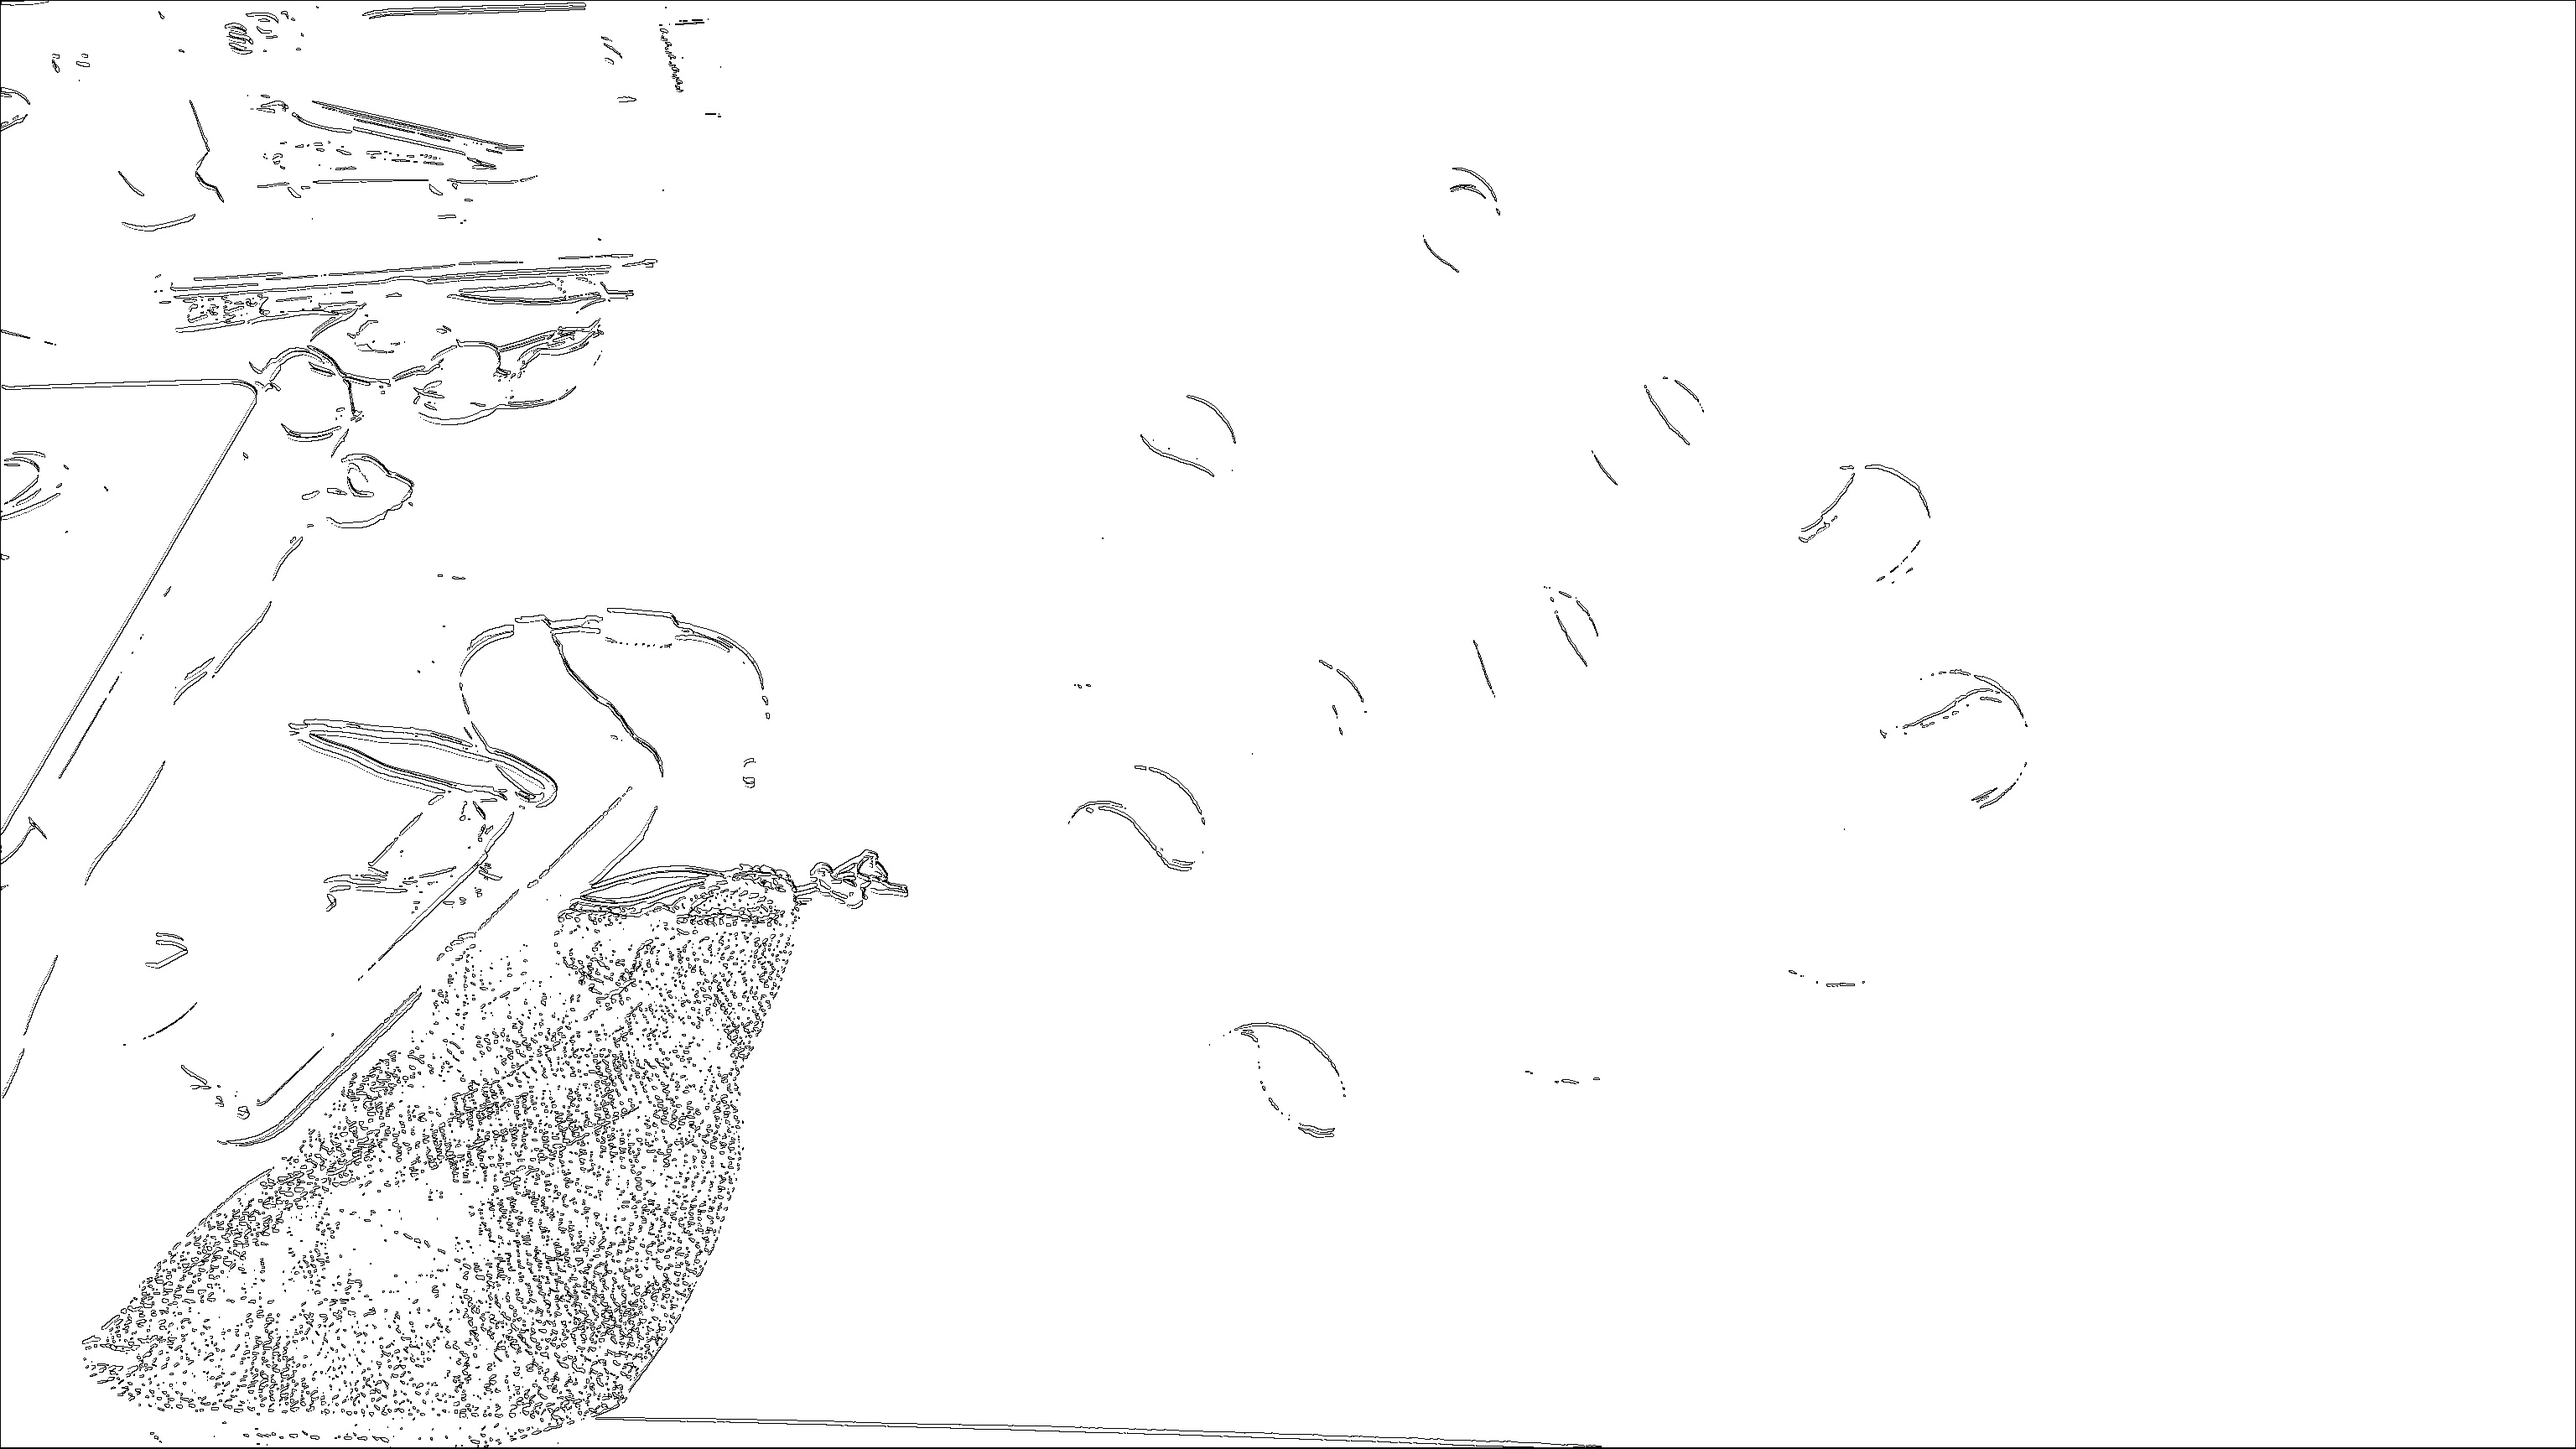
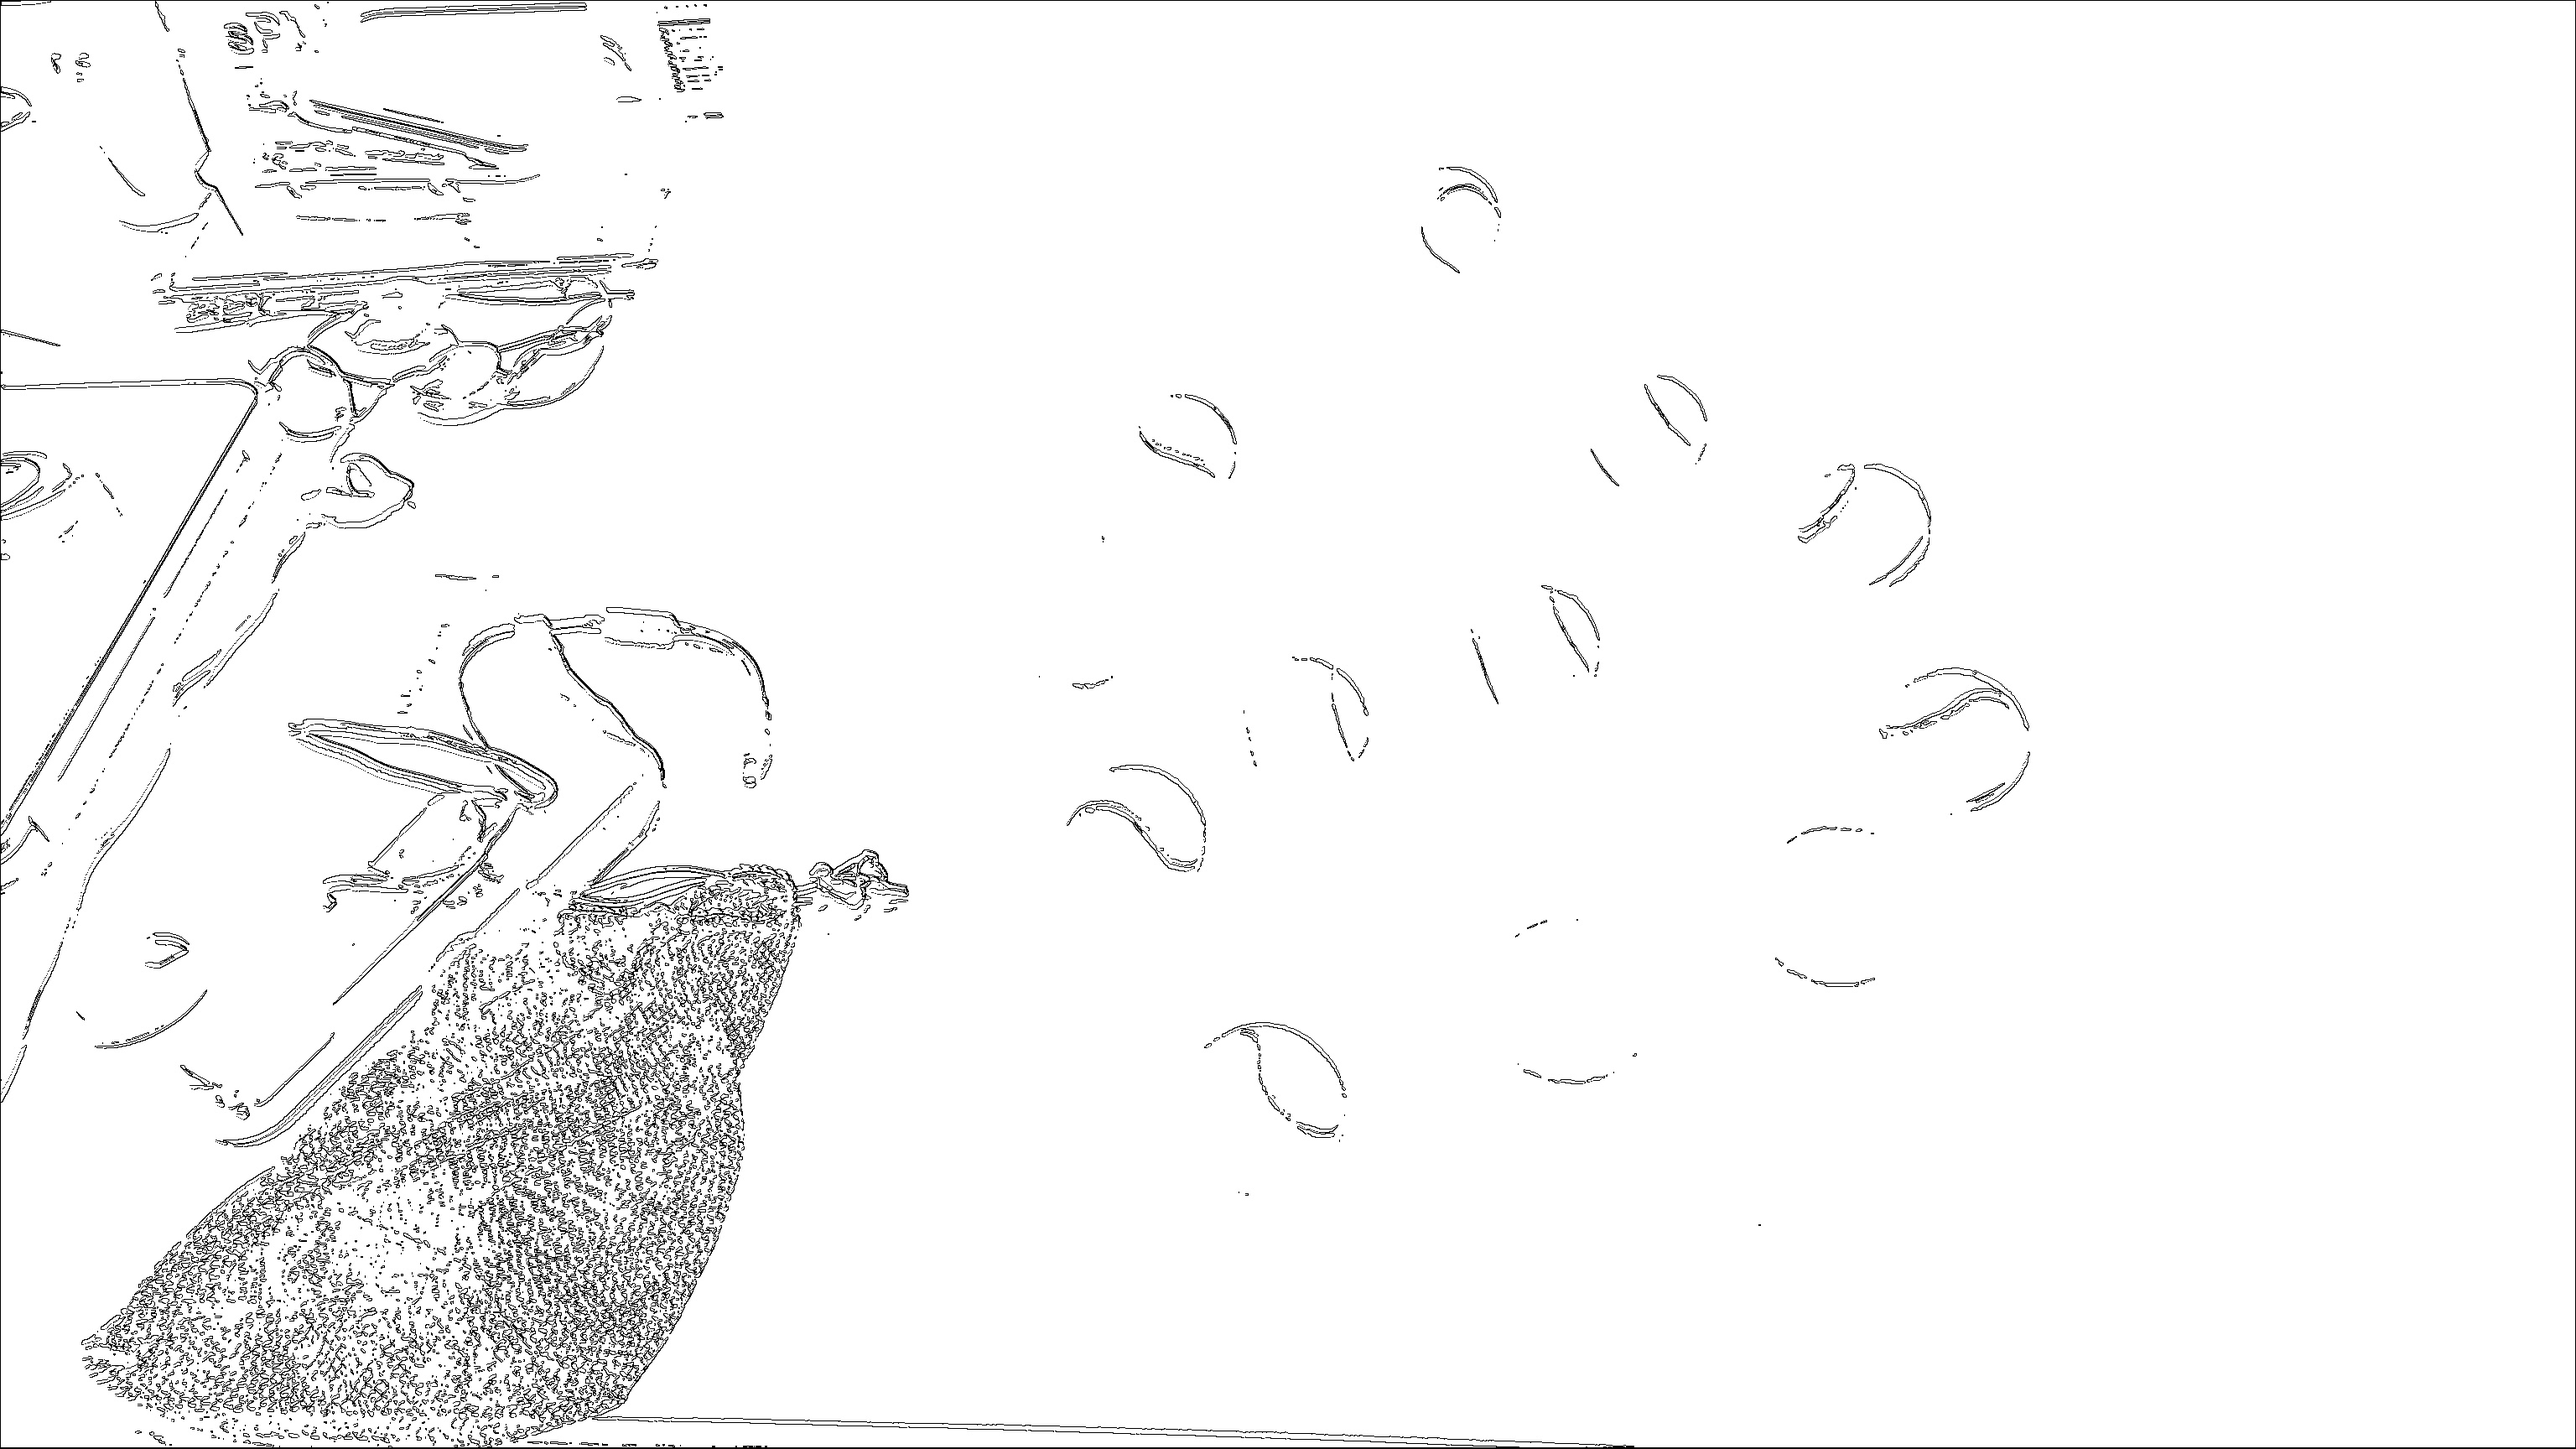
Added Hough Circles

diff --git a/BMaxwellOpenCV/main.cc b/BMaxwellOpenCV/main.cc
@@ -1,20 +1,23 @@
 //Include
 
 #include <opencv2\opencv.hpp>
-#include <iostream>
 #include <math.h>
+#include <stdio.h>
+#include <vector>
 
 //Benson Maxwell: 01504282
 
 //Namespaces
 
 using namespace cv;
+using namespace std;
 
 //Function prototypes
-void edgeDet(Mat input, int width, int height, float sigma);											//Canny style edge detection
-void imagePro(int width, int height);																	//Sobel filter
-void findEdge(int rowShift, int colShift, int row, int col, int direction, int width, int height);	//Find the edge provvided by the Sobel
-void nonMaxima(int rowShift, int colShift, int row, int col, int direction, int width, int height);	//Remove nonMax edges
+void edgeDet(Mat& input, int width, int height, float sigma);											//Canny style edge detection
+void imagePro(int width, int height);																	//Canny Filter filter
+void findEdge(int rowShift, int colShift, int row, int col, int direction, int width, int height);		//Find the edge provvided by the Sobel
+void nonMaxima(int rowShift, int colShift, int row, int col, int direction, int width, int height);		//Remove nonMax edges
+void houghCircle(Mat& original, int width, int height);
 
 //Macros for greyscale
 #define pixel(image ,y, x, step, channels) ( (uchar*) ((( image).data ) + (y) *(step) ) ) [( x)*(channels)]
@@ -27,23 +30,26 @@ int imageX, imageY;												// Image Resoltion
 float sigma = 1.0;												// Canny Filter Standard deviation
 int gradX;														// Sum of Sobel mask products values in the x direction
 int gradY;														// Sum of Sobel mask products values in the y direction
-int GxMask[3][3] = { {-1,0,1}, {-2,0,2}, {-1,0,-1} };			// Sobel mask in the x direction
-int GyMask[3][3] = { {1,2,1}, {0,0,0}, {-1,-2,-1} };			// Sobel mask in the y direction
+int GxMask[3][3] = { {-3,0,3}, {-10,0,10}, {-3,0,-3} };			// Sobel mask in the x direction
+int GyMask[3][3] = { {3,10,3}, {0,0,0}, {-3,-10,-3} };			// Sobel mask in the y direction
 int edgeDirection[3072][1728];									// Stores the edge direction of each pixel
-double pixGradient[3072][1728];									// Stores the gradient strength of each pixel
+int pixGradient[3072][1728];									// Stores the gradient strength of each pixel
 Mat impro_image(1728, 3072, CV_8UC1);							// Mat file for Sobel Operator
 Mat grey_image(1728, 3072, CV_8UC1);							// Mat file for Gray scale Operator
 Mat blur_image(1728, 3072, CV_8UC1);							// Gaussian Blur result
-float thresLow = 0.5;											// Lower Threshold
-float thresHigh = 0.7;											// Upper Threshold
+Mat hough_image(1728, 3072, CV_8UC1);							// Hough result
+float thresLow = 0.100;											// Lower Threshold
+float thresHigh = 0.5;											// Upper Threshold
 int step = impro_image.step;
 int channels = impro_image.channels();
-
+int radMin = 130;												// Min radius to look for
+int radMax = 195;												// Max Radius to look for
+vector<Vec3i> houghAcc;											// Hough Accumulator (Row, Col, Radius)
 
 
 int main(int argc, char* args[]) {
 
-	Mat	src_image = imread(FILE_NAME, CV_LOAD_IMAGE_COLOR);		// Loads the image1.jpg into the variable src_image
+	Mat src_image = imread(FILE_NAME, CV_LOAD_IMAGE_COLOR);		// Loads the image1.jpg into the variable src_image
 	imageX = src_image.size().width;
 	imageY = src_image.size().height;
 
@@ -52,11 +58,11 @@ int main(int argc, char* args[]) {
 
 	imwrite("../../BMaxwellOpenCV/Grey_Image.jpg", grey_image);
 	
-	namedWindow("Image", CV_WINDOW_NORMAL);						// Opens images for comparison
-	namedWindow("Grey Image", CV_WINDOW_NORMAL);
+	//namedWindow("Image", CV_WINDOW_NORMAL);						// Opens images for comparison
+	//namedWindow("Grey Image", CV_WINDOW_NORMAL);
 
-	imshow("Image", src_image);
-	imshow("Grey Image", grey_image);
+	//imshow("Image", src_image);
+	//imshow("Grey Image", grey_image);
 
 	edgeDet(grey_image, imageX, imageY, sigma); //Runs the Edge Detection algorithm
 
@@ -67,22 +73,25 @@ int main(int argc, char* args[]) {
 	return 0;
 }
 
-void edgeDet(Mat input, int width, int height, float sigma){
+void edgeDet(Mat &input, int width, int height, float sigma){
 
 	Mat kernel = (Mat_<double>(5, 5) << 1, 4, 6, 4, 1, 4, 16, 24, 16, 4, 6, 24, 36, 24, 6, 4, 16, 24, 16, 4, 1, 4, 6, 4, 1);	//Gaussian Kernel
-	kernel = kernel / 256;										//Normalised
+	kernel = kernel / 350;										//Normalised
 
 	filter2D(input, blur_image, -1, kernel, Point(-1, -1), 0);	//Convolve for Gaussian Blur creation
 
 	imwrite("../../BMaxwellOpenCV/Blur_Image.jpg", blur_image);
-	namedWindow("Blur Image", CV_WINDOW_NORMAL);
-	imshow("Blur Image", blur_image);
+	//namedWindow("Blur Image", CV_WINDOW_NORMAL);
+	//imshow("Blur Image", blur_image);
 	
 	imagePro(width, height);	//Sobel Function
 
+
 	imwrite("../../BMaxwellOpenCV/impro_Image.jpg", impro_image);
-	namedWindow("Canny Image", CV_WINDOW_NORMAL);
-	imshow("Canny Image", impro_image);
+	//namedWindow("Canny Image", CV_WINDOW_NORMAL);
+	//imshow("Canny Image", impro_image);
+
+	houghCircle(input, width, height);
 
 	return ;
 
@@ -174,7 +183,7 @@ void imagePro(int width, int height){
 	// Suppress any pixels not changed by the edge tracing
 	for (row = 0; row < height; row++) {
 		for (col = 0; col < width; col++) {
-			// If a pixel's grayValue is not black or white make it black
+			// If a pixel's grayValue is not black or white make it white
 			if ((pixel(impro_image, row, col, step, channels) != 255) && (pixel(impro_image, row, col, step, channels) != 0)) {
 				pixel(impro_image, row, col, step, channels) = 0;
 			}
@@ -247,7 +256,7 @@ void findEdge(int rowShift, int colShift, int row, int col, int direction, int w
 	//Determine if edge directions and gradient strengths correspond
 	while ((edgeDirection[newCol][newRow] == direction) && !edgeEnd && (pixGradient[newCol][newRow] > thresLow)) {
 		
-		//Set the pixel to white
+		//Set the pixel to black
 		pixel(impro_image, row, col, step, channels) = 255;							//need to pass this back and forward somehow   //uncomment this line when error is solved
 
 		if (colShift < 0) {
@@ -281,7 +290,7 @@ void nonMaxima(int rowShift, int colShift, int row, int col, int direction, int 
 	int newRow = 0;
 	int newCol = 0;
 	bool edgeEnd = false;
-	float nonMax[3072][3];													// Temporarily stores gradients and positions of pixels in parallel edges
+	int nonMax[3072][3];															// Temporarily stores gradients and positions of pixels in parallel edges
 	int pixelCount = 0;																// Stores the number of pixels in parallel edges
 	int count;
 	int max[3];																		// Maximum point in a wide edge
@@ -414,4 +423,77 @@ void nonMaxima(int rowShift, int colShift, int row, int col, int direction, int 
 	}
 
 	return ;
+}
+
+
+void houghCircle(Mat &original, int width, int height) {
+
+	int i, j, k;
+	int x = 0;
+	int y = 0;
+	Vec3i tempVec;
+
+
+	//For each possible radius, go through the impro_image and create the hough space.
+	for (k = radMin; k <= radMax; k++) 
+	{
+		hough_image = Scalar(0);
+
+		for (i = 0; i < height; i++)
+		{
+			for (j = 0; j < width; j++)
+			{
+				//If the pixel is black (edge) then carry find the circles that it could fall on
+				if (pixel(impro_image, i, j, step, channels) == 255) 
+				{	
+					for (y = -k; ( i + y ) < (i + k); y++)
+					{
+						for (x = -k; (j + x) < (j + k); x++) 
+						{
+							if ((i + y < 0) || (j + x < 0))
+							{
+								if (pow(y, 2) + pow(x, 2) == pow(k, 2)) 
+								{
+									//Check if we have intensity overflow on the hough image.
+									if (pixel(hough_image, (i + y), (j + x), step, channels) == 255)
+									{
+										break;
+									}
+									else
+									{
+										//increase the intensity of that pixel by 1
+										pixel(hough_image, (i + y), (j + x), step, channels) += 1;
+									}
+								}
+							}
+						}
+					}
+				}
+			}
+		}
+		//check the map for maxima, and place maxima into the hough accumulator
+		for (i = 0; i < height; i++)
+		{
+			for (j = 0; j < width; j++)
+			{
+				if (pixel(hough_image, i, j, step, channels) > 10)
+				{
+					tempVec[0] = i;													//Row
+					tempVec[1] = j;													//Col
+					tempVec[2] = k;													//Radius
+					houghAcc.push_back(tempVec);
+					
+				}
+			}
+		}
+	}
+
+	for (i = 0; i < houghAcc.size(); i++)
+	{
+		circle(original, Point(houghAcc[i][0], houghAcc[i][1]), houghAcc[i][2], Scalar(0, 255, 255), 1, 8, 0);
+	}
+
+	namedWindow("Image", CV_WINDOW_NORMAL);
+	imshow("Image", original);
+
 }
